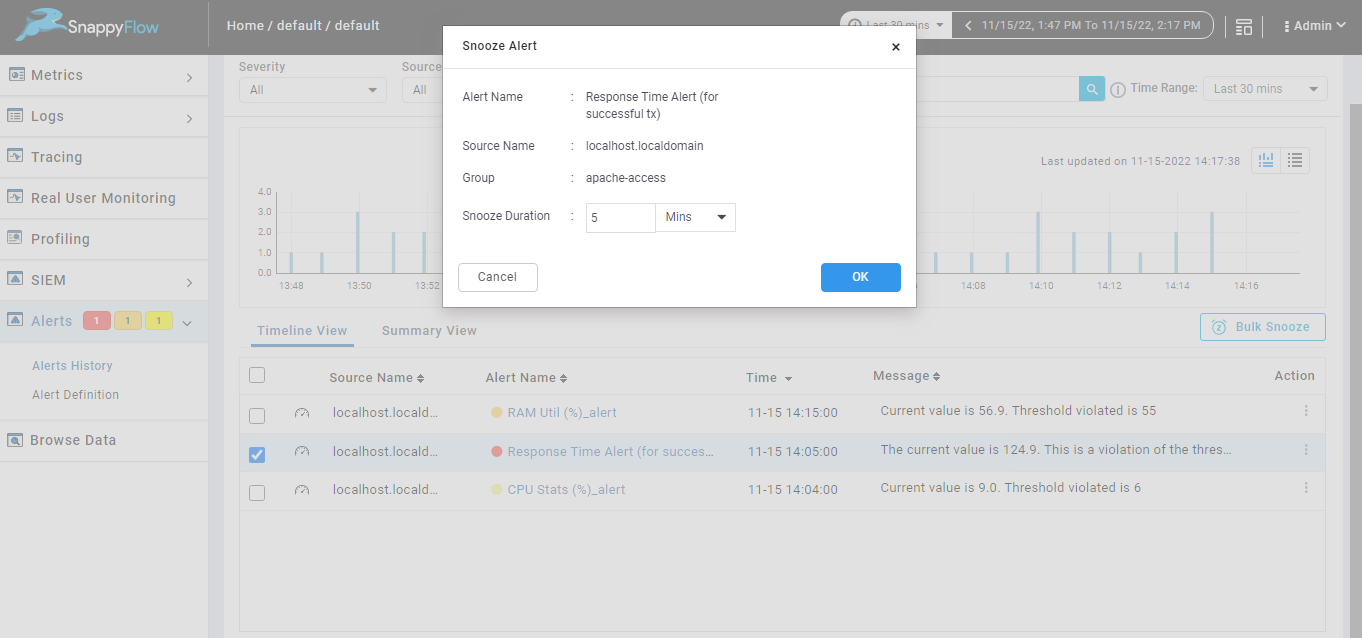
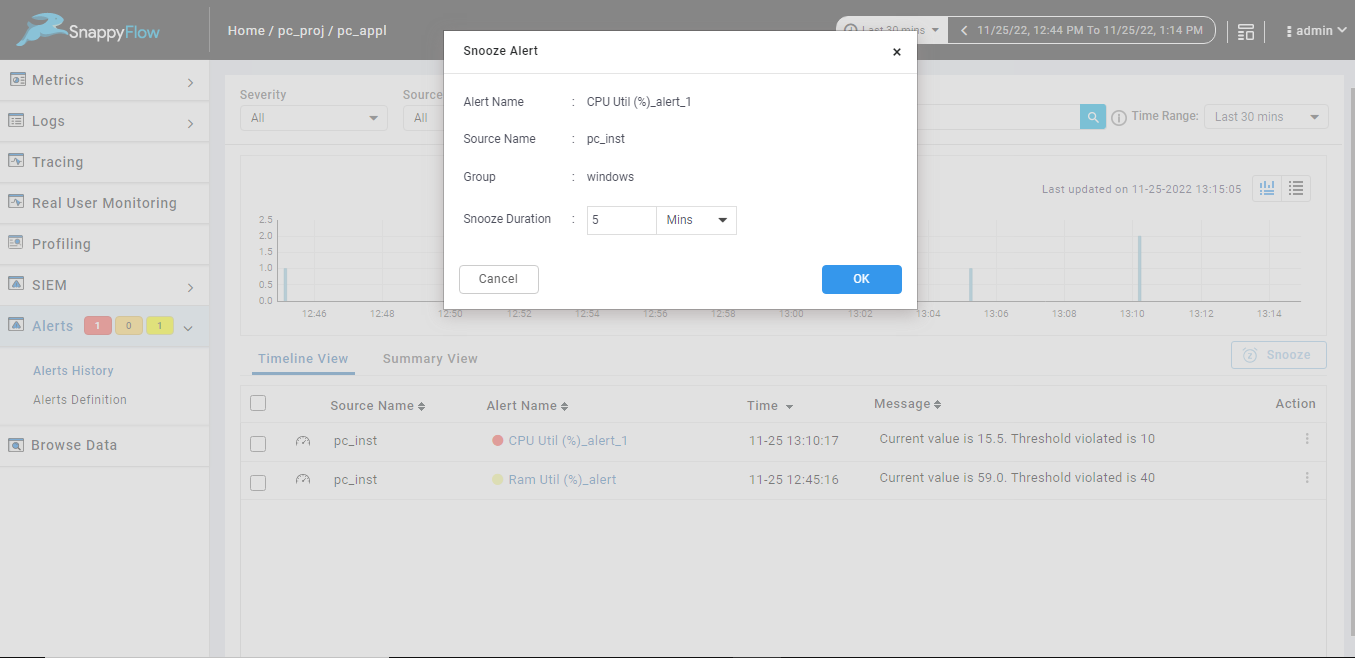
Snooze alert images updated

diff --git a/docs/Alerts_notifications/getting_started.md b/docs/Alerts_notifications/getting_started.md
@@ -74,9 +74,9 @@ Alert can be executed in the following modes.
 
 ### Trigger After Cycles
 
-This allows users to add number of trigger cycles to be wait before raising the alert, when the user adds trigger after cycles, alert will not raise and wait for the given trigger after cycles even though it satisfies any one of the severity conditions.
+This allows users to add number of trigger cycles to wait before raising the alert, when the user adds trigger after cycles, alert will not raise and wait for the given trigger after cycles even though it satisfies any one of the severity conditions.
 
-This option help in avoid raising an issue which has occurred just once. For a e.g., if user has created an alert to raise Sev1 alert if the count of error log is more than 1 for sampling period 5 mins and periodicity 5 mins.  
+This option will avoid to raise an issue immediately after its occurrence. For a e.g., if user has created an alert to raise Sev1 alert if the count of error log is more than 1 for sampling period 5 mins and periodicity 5 mins.  
 
 Consider the situation when system was being upgraded now in the last 5 mins all the API calls failed and created lot of error but only in 1 alert cycle (i.e., the severity condition is satisfied in 1 alert cycle alone, this issue is not consistent). 
 
@@ -106,13 +106,13 @@ If avg response time is 43.7 which is > 25 so satisfy sev2 condition and this ti
 <img src="/img/trigger_after_cycle/interface.png"/>
 
 
-As shown in the above image text box is provided to add ‘Tringger After Cycle’ also there is a drop down for Selecting Alert Severity that will be ‘Latest Sev’ or ‘Highest Sev’
+As shown in the above image text box is provided to add ‘Trigger After Cycle’ also there is a drop down for Selecting Alert Severity that will be ‘Latest Sev’ or ‘Highest Sev’
 
 **Alert Severity:**
-If trigger after cycle is 4 for an alert and below are the severity conditions satisfy for the cycles
-- **For 1st cycle:**  Satisfy Sev2 but alert will be not raised.
-- **For 2nd cycle:**  Satisfy Sev2 but alert will be not raised.
-- **For 3rd cycle:**  Satisfy Sev3 but alert will be not raised.
+If the Trigger After Cycles is set at 4 for an alert, then below will be the alert behaviour before its triggered.
+- **For 1st cycle:**  Satifies Sev2 but alert will be not raised.
+- **For 2nd cycle:**  Satifies Sev2 but alert will be not raised.
+- **For 3rd cycle:**  Satifies Sev3 but alert will be not raised.
 - **For 4th cycle:**  Alert will be raised.
 
 If Alert severity is set as ‘Latest Sev’ then at 4th cycle Sev3 alert will be raised because the latest Sev3 condition is satisfied at 3rd cycle.
@@ -138,7 +138,7 @@ As shown in the below image while adding or editing the alert you can use text b
 
 ### Recurring Time
 
-Recurring time allow users to add frequency of alert being notified, when the user adds recurring time, alert will be notified only when user defined recuring time crossed from previous notification.
+Recurring time allow users to add a difference in time duration of the alert being notified. When the user adds recurring time, alert will be notified only when user defined recurring time has exceeded from the previous notification.
 
 E.g.
 When user adds Response Time alert with periodicity 5 mins, sampling period 5 mins and recurring time 10 mins with following severity condition:
@@ -155,18 +155,18 @@ If in the upcoming cycle say 11:10 AM if the severity condition is still breache
 <img src="/img/recurring_time/interface.png"/>
 
 
-As shown in the above image text box is provided to add ‘Recurring Time’ It can be in minutes, hours, or days.
+As shown in the above image text box is provided to add ‘Recurring Time’ It can be in Minutes, Hours, or Days.
 
 
 **How to add recurring time in alert.**
 
 <img src="/img/recurring_time/recurring.png"/>
 
-By default, ‘Recuring Time’ will be always 30m while adding the alert as shown in the below image.
+By default, ‘Recurring Time’ will be always 30m while adding the alert as shown in the below image.
 
-By default, when alert defined with say 5 mins periodicity or any periodicity, will be notified to the user for the first time it occurred. We don’t notify the alert for another 30 mins from the time of occurrence of previous alert or the alert will not be notified until and unless a higher severity alert is raised, this is to reduce the frequency of alert being notified. 
+Let’s consider an alert with Periodicity set at 5mins, and Recurring time set to default 30mins. Once the specific alert is triggered, system will not notify for another 30mins, even if the alert condition is met. This is done to reduce the frequency of alerts being notified.
 
-As shown in the below image while adding or editing the alert you can use text box provided as ‘Recurring Time’ to add recurring time in minutes, hours, or days.
+As shown in the below image while adding or editing the alert you can use text box provided as ‘Recurring Time’ to add recurring time in Minutes, Hours, or Days.
 
 **While adding the alert.**
 
@@ -180,43 +180,41 @@ As shown in the below image while adding or editing the alert you can use text b
 
 ### Snooze Alert
 
-Snooze alert will allow user to stop an alert from being notified for a brief amount of time even if the severity conditions are satisfied and later automatically get active after the specified snooze time.
+Snooze alert will enable the user to snooze or stop an alert being notified for the time duration specified. Irrespective of the alert conditions being met, the alert will not be active during this snooze duration. The alert will be enabled once the snooze duration expires.
 
-When user has planned for 4 hours maintenance period, during which the system will be down and cause the alerts. At this scenario user can snooze the alert for the 4 hours but need not stop the alert. So, after 4 hours (i.e., specified snooze duration), the alerts will be active automatically.
-
-When an alert is notified due to some issue in the system, to avoid getting any further notification till the system issue is resolved user can snooze the alert for specified duration while addressing and resolving the issue in the system.
+Let’s consider a situation where an user has planned for a system maintenance which will take approx. 4 hours. During this while the system might come across various corner conditions and many system parameters might be crossing their respective threshold values. This can consequently trigger a lot of unimportant alerts.  To overcome this situation, Snoozing an alert can avoid unwanted panic within the system.
 
 **How to snooze alerts.**
 
-Alerts can be snoozed from alert history page. Option is provided to snooze single alert, or you can select multiple alerts and snooze bulk alerts as shown in the below image. 
+Alerts can be snoozed from alert history page. Option is provided to snooze single alert, or you can select multiple alerts and snooze alerts as shown in the below image. 
 
 <img src="/img/snooze_alert/snooze.png"/>
 
 **Snoozing single alert from alert history page.**
 
-When you snooze single alert from alert history page alert name, source name, group of the selected alert will be display and you must add the duration to snooze the selected alert, duration can be minuets, hours, days.
+When you snooze a single alert from the alert history page, details such as Alert Name, Source Name, Group and Snooze Duration are displayed. The Snooze Duration by default is set to 5 Mins. User can change the duration to Minutes, Hours, and Days.
 
 <img src="/img/snooze_alert/single_alert_history.png"/>
 
 **Bulk snooze in alert history page.**
 
-When you snooze multiple alerts by using bulk snooze option from alert history page alert name, source name, group for all the selected alerts will be listed and you must add the duration to snooze the alert duration can be minuets, hours, days. The same duration will be applicable for all listed alerts as shown in the below image.
+When you snooze multiple alerts using the Snooze option from the alert history page, details such as Alert Name, Source Name, Group and Snooze Duration are displayed. The Snooze Duration by default is set to 5 Mins. User can change the duration to Minutes, Hours and Days, and this will be reflected for all alerts selected.
 
 <img src="/img/snooze_alert/multiple_alert_history.png"/>
 
-Alerts also can be snoozed from alert definition page. Option is provided to snooze single alert, or you can select multiple alerts and snooze bulk alerts as shown in the below image. 
+Alerts also can be snoozed from alert definition page. Option is provided to snooze single alert, or you can select multiple alerts and snooze alerts as shown in the below image. 
 
 <img src="/img/snooze_alert/definition_snooze.png"/>
 
 **Snoozing single alert from alert definition page.**
 
-When you snooze single alert from alert definition page alert name, source name, group of the selected alert will be display and you must add the duration to snooze the selected alert, duration can be minuets, hours, days.
+When you snooze single alert from alert definition page alert name, source name, group of the selected alert will be display and you must add the duration to snooze the selected alert, duration can be Minutes, Hours, Days.
 
 <img src="/img/snooze_alert/single_alert_definition.png"/>
 
 **Bulk snooze in alert definition page.**
 
-When you snooze multiple alerts by using bulk snooze option from alert definition page alert name, source name, group for all the selected alerts will be listed and you must add the duration to snooze the alert, duration can be minuets, hours, days. The same duration will be applicable for all listed alerts as shown in the below image.
+When you snooze multiple alerts by using snooze option from alert definition page alert name, source name, group for all the selected alerts will be listed and you must add the duration to snooze the alert, duration can be Minutes, Hours, Days. The same duration will be applicable for all listed alerts as shown in the below image.
 
 <img src="/img/snooze_alert/multiple_alert_definition.png"/>
 
